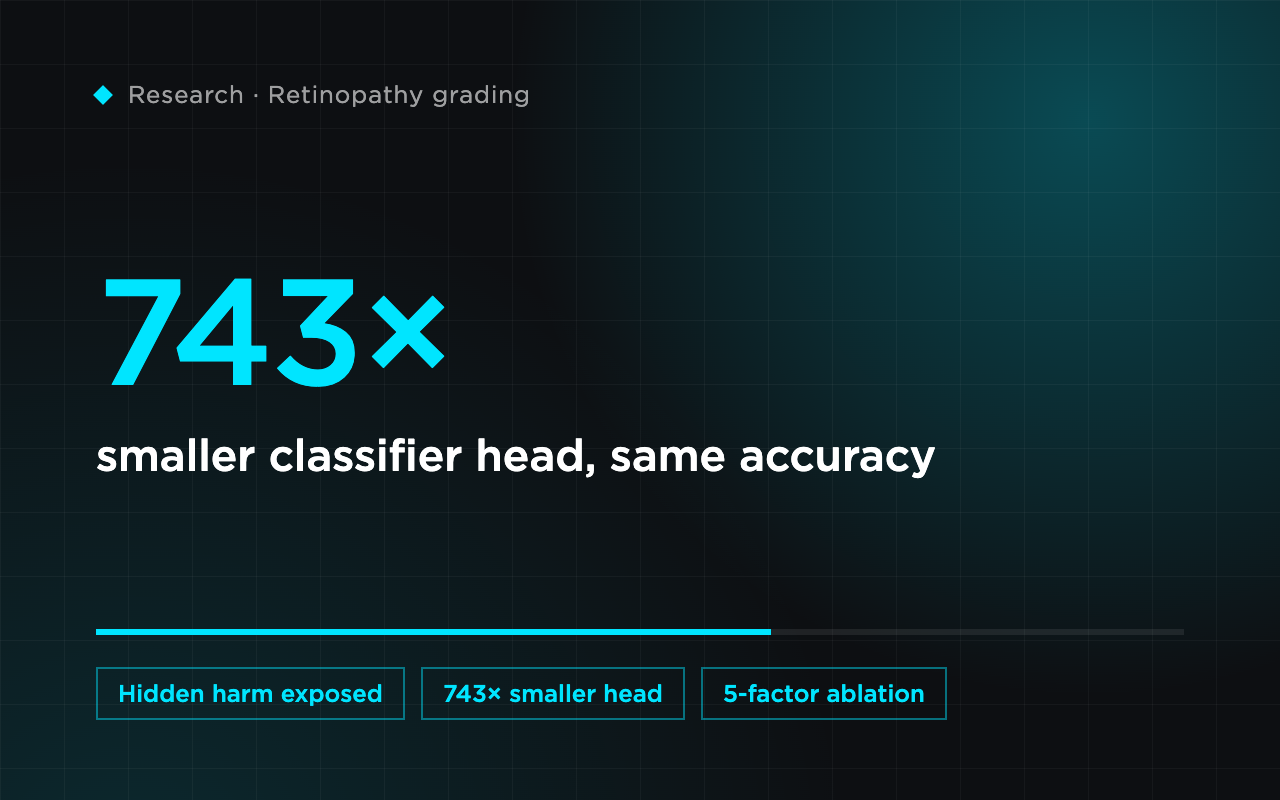
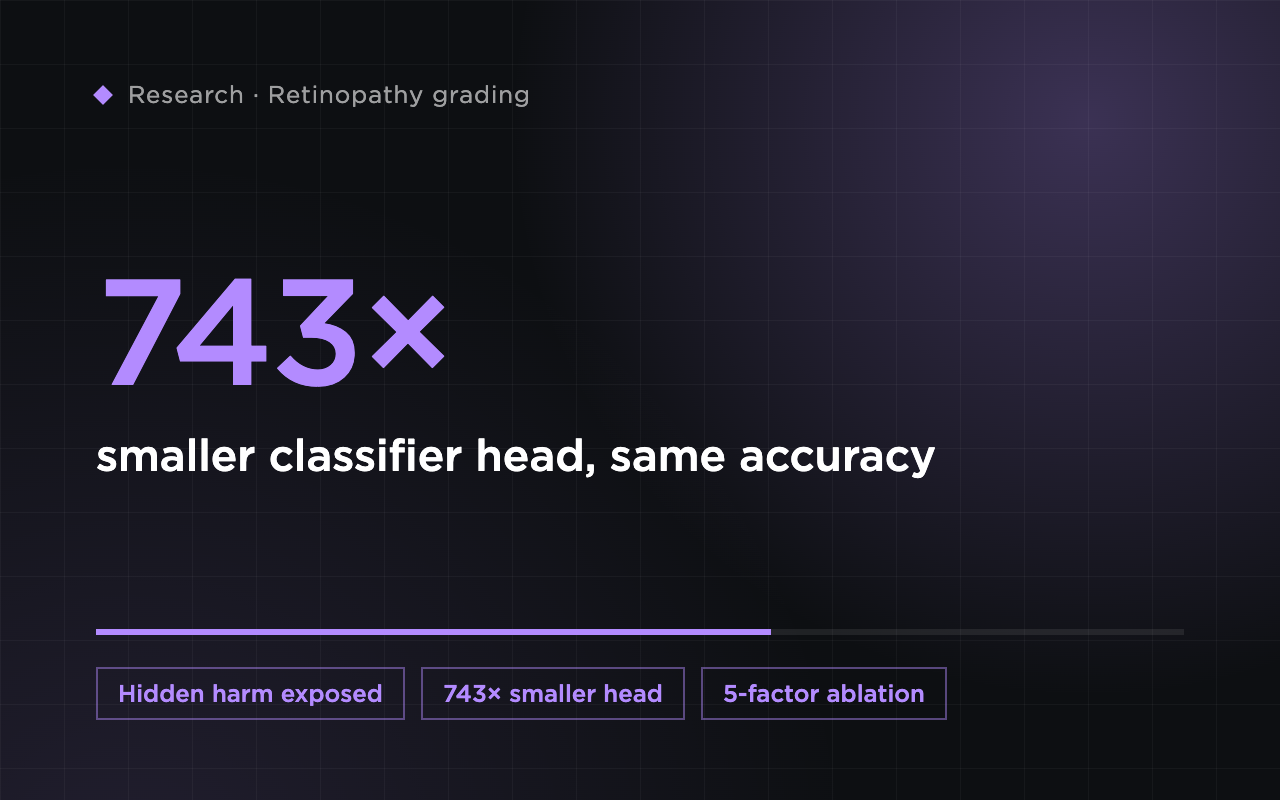
Add a Jujutsu Kaisen inspired theme
- cursed energy violet replaces the cyan accent in both themes
- displacement sphere recoloured towards Hollow Purple
- kanji backdrops: 領域展開 (Domain Expansion) behind projects and
  特級呪術師 (Special Grade Sorcerer) on the profile, set in Hiragino W8
- decoder text scrambles through cursed technique kanji
- section tags carry 術式, 呪力 and 修行
- research mockup screens re-rendered in violet

diff --git a/app/components/decoder-text/decoder-text.jsx b/app/components/decoder-text/decoder-text.jsx
@@ -5,23 +5,16 @@ import { delay } from '~/utils/delay';
 import { classes } from '~/utils/style';
 import styles from './decoder-text.module.css';
 
+// Cursed technique kanji the text decodes through
 // prettier-ignore
 const glyphs = [
-  'ア', 'イ', 'ウ', 'エ', 'オ',
-  'カ', 'キ', 'ク', 'ケ', 'コ',
-  'サ', 'シ', 'ス', 'セ', 'ソ',
-  'タ', 'チ', 'ツ', 'テ', 'ト',
-  'ナ', 'ニ', 'ヌ', 'ネ', 'ノ',
-  'ハ', 'ヒ', 'フ', 'ヘ', 'ホ',
-  'マ', 'ミ', 'ム', 'メ', 'モ',
-  'ヤ', 'ユ', 'ヨ', 'ー',
-  'ラ', 'リ', 'ル', 'レ', 'ロ',
-  'ワ', 'ヰ', 'ヱ', 'ヲ', 'ン',
-  'ガ', 'ギ', 'グ', 'ゲ', 'ゴ',
-  'ザ', 'ジ', 'ズ', 'ゼ', 'ゾ',
-  'ダ', 'ヂ', 'ヅ', 'デ', 'ド',
-  'バ', 'ビ', 'ブ', 'ベ', 'ボ',
-  'パ', 'ピ', 'プ', 'ペ', 'ポ',
+  '呪', '術', '式', '領', '域',
+  '展', '開', '力', '廻', '戦',
+  '虚', '紫', '蒼', '赫', '縛',
+  '祓', '特', '級', '結', '界',
+  '帳', '印', '黒', '閃', '無',
+  '量', '空', '処', '反', '転',
+  '宿', '儺', '獄', '門', '彊',
 ];
 
 const CharType = {

diff --git a/app/routes/home/home.jsx b/app/routes/home/home.jsx
@@ -42,6 +42,7 @@ const sections = [
     id: 'software',
     category: 'software',
     label: 'Software',
+    kanji: '術式',
     title: 'Products that ship, and move the business',
     description:
       'Leading teams from discovery to delivery: shorter time to market, platforms that hold up in production, and costs that go down instead of up.',
@@ -50,6 +51,7 @@ const sections = [
     id: 'ai',
     category: 'ai',
     label: 'AI / ML',
+    kanji: '呪力',
     title: 'Research-grade AI, built to run for real',
     description:
       'Models that need less data and less compute to be accurate, from medical imaging to real-time computer vision.',
@@ -60,6 +62,7 @@ const sideProjectsSection = {
   id: 'side-projects',
   category: 'side',
   label: 'Side projects',
+  kanji: '修行',
   title: 'Things I build for fun',
   description: 'Hackathons, community tools and experiments outside of client work.',
 };

diff --git a/app/routes/home/section-intro.jsx b/app/routes/home/section-intro.jsx
@@ -6,7 +6,15 @@ import { Transition } from '~/components/transition';
 import { useState } from 'react';
 import styles from './section-intro.module.css';
 
-export function SectionIntro({ id, sectionRef, visible: sectionVisible, label, title, description }) {
+export function SectionIntro({
+  id,
+  sectionRef,
+  visible: sectionVisible,
+  label,
+  kanji,
+  title,
+  description,
+}) {
   const [focused, setFocused] = useState(false);
   const titleId = `${id}-title`;
 
@@ -33,6 +41,7 @@ export function SectionIntro({ id, sectionRef, visible: sectionVisible, label, t
               />
               <span className={styles.tagText} data-visible={visible}>
                 {label}
+                {kanji && <span className={styles.kanji}>{kanji}</span>}
               </span>
             </div>
             <Heading

diff --git a/app/components/theme-provider/theme.js b/app/components/theme-provider/theme.js
@@ -110,8 +110,9 @@ const tokensMobileSmall = {
 const dark = {
   background: 'oklch(17.76% 0 0)',
   backgroundLight: 'oklch(21.78% 0 0)',
-  primary: 'oklch(84.42% 0.19 202.24)',
-  accent: 'oklch(84.42% 0.19 202.24)',
+  // Cursed energy violet
+  primary: 'oklch(74% 0.19 300)',
+  accent: 'oklch(74% 0.19 300)',
   error: 'oklch(65.91% 0.249 13.76)',
   text: 'var(--white)',
   textTitle: 'var(--text)',
@@ -123,7 +124,7 @@ const light = {
   background: 'oklch(96.12% 0 0)',
   backgroundLight: 'var(--white)',
   primary: 'var(--black)',
-  accent: 'oklch(84.42% 0.19 202.24)',
+  accent: 'oklch(56% 0.25 300)',
   error: 'oklch(63.17% 0.259 25.41)',
   text: 'var(--black)',
   textTitle: 'color-mix(in lab, var(--text) 90%, transparent)',

diff --git a/app/routes/home/section-intro.module.css b/app/routes/home/section-intro.module.css
@@ -51,6 +51,13 @@
   }
 }
 
+.kanji {
+  margin-left: var(--spaceM);
+  padding-left: var(--spaceM);
+  border-left: 1px solid color-mix(in lab, var(--primary) 50%, transparent);
+  letter-spacing: 0.3em;
+}
+
 .title,
 .description {
   max-width: 720px;
